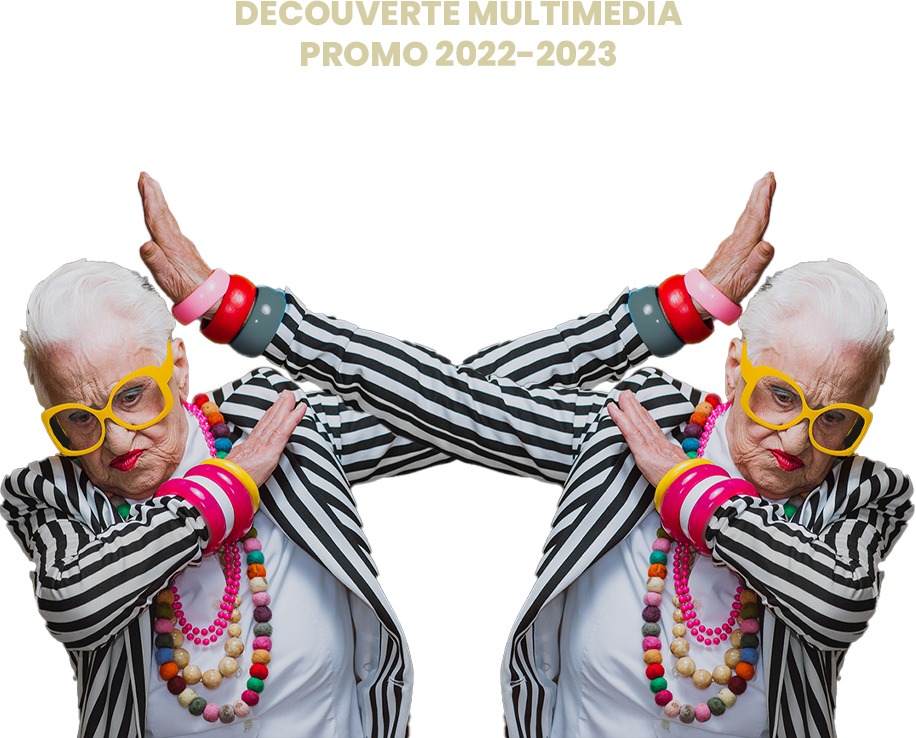
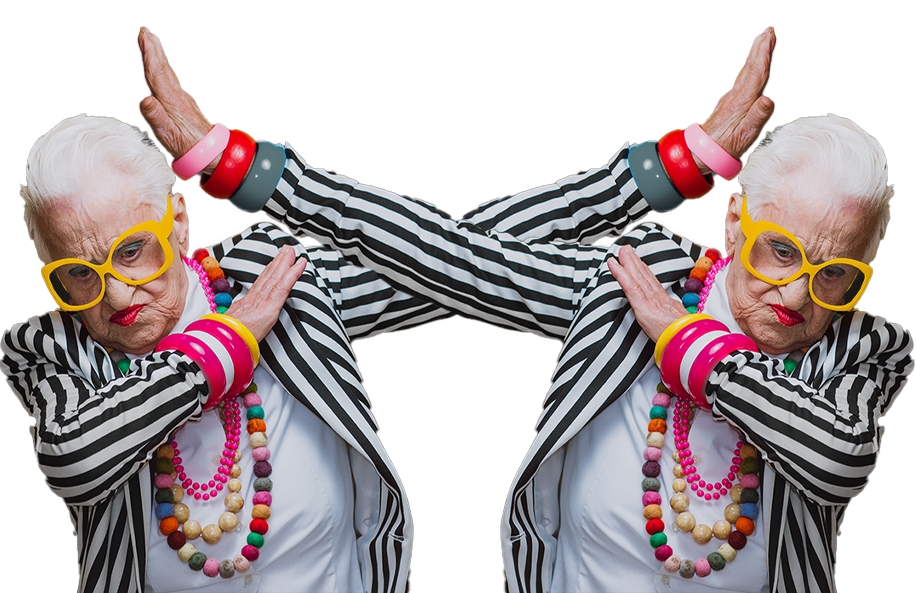
git push

diff --git a/main.js b/main.js
@@ -4,6 +4,10 @@ var imgActuelle = 0;
 // tableau listant toutes les images
 var images = ["img/rayane.png","img/Alicia.png","img/amal.png","img/asia.png","img/axel.png","img/fredd.png","img/khaoula.png"
 ,"img/lea.png","img/luka.png","img/kevin.png","img/mehdi.png","img/najet.png","img/soumaya.png","img/tom.png","img/yanis.png"];
+var currentImg = 0;
+// tableau listant toutes les images de fond
+var imagesFond = ["/img2/rayane.png","img2/alicia3.png","img2/amal.png","","img2/axel2.png","img2/fredd.jpg","img2/khaoula.png","img2/lea.png"
+,"img2/luckas.png","img2/kevin2.png","img2/mehdi.png","img2/najet2.PNG","img2/soumaia.png","img2/tom.jpg","img2/yanis.jpg"];
 
 
 // tableau listant toutes les légendes
@@ -26,6 +30,8 @@ var legendes = [
     
 ];
 
+
+
 // référence au diaporama que nous modifierons
 var diaporama = document.querySelector("#diaporama");
 
@@ -44,6 +50,13 @@ function imgSuivante(){
     // si imgActuelle est plus grand que la dernière clé du tableau images, on la remet à 0
     if(imgActuelle >= images.length) imgActuelle=0;
     majImage();
+     // on met à jour l'image de fond
+     fond.style.backgroundImage = "url("+imagesFond[imgActuelle]+")";
+     fond.style.backgroundSize = "cover";
+     fond.style.backgroundPosition = "center";
+     fond.style.backgroundSize = "70%";
+     
+     majImage();
 }
 
 // fonction appelée lors d'un clic sur le bouton #btGauche
@@ -52,6 +65,11 @@ function imgPrecedente(){
     imgActuelle--;
     // si imgActuelle est plus petit que 0, on le redéfinit à que la dernière clé du tableau images (case 3)
     if(imgActuelle < 0) imgActuelle= images.length-1;
+    majImage();
+    fond.style.backgroundImage = "url("+imagesFond[imgActuelle]+")";
+    fond.style.backgroundSize = "cover";
+    fond.style.backgroundPosition = "center";
+    fond.style.backgroundSize = "70%";
     majImage();
 }
 
@@ -66,43 +84,3 @@ function majImage() {
       diaporama.className = "animate__animated animate__fadeIn animate__delay-1.5s";
     }, 1500);
   }
-function changeColor() {
-   // Génère une couleur aléatoire
-   let color = '#'+Math.floor(Math.random()*16777215).toString(16);
-   // Modifie la couleur de fond de l'élément "diaporama"
-   document.getElementById("diaporama").style.backgroundColor = color;
-
-}
-
-const fonds = [
-    'backgroungimage/1.png','backgroungimage/5.png','backgroungimage/6.png','backgroungimage/7.png','backgroungimage/9.png','backgroungimage/10.png','backgroungimage/11.png','backgroungimage/12.png','backgroungimage/13.png','backgroungimage/14.png','backgroungimage/15.png','backgroungimage/20.png','backgroungimage/23.png','backgroungimage/26.png','backgroungimage/29.png','backgroungimage/30.png','backgroungimage/31.png','backgroungimage/32.png','backgroungimage/33.png','backgroungimage/36.png',
-    'backgroungimage/37.png','backgroungimage/40.png','backgroungimage/51.png','backgroungimage/52.png','backgroungimage/53.png',
-    'backgroungimage/3.jpg','backgroungimage/4.jpg','backgroungimage/16.jpg','backgroungimage/17.jpg','backgroungimage/18.jpg',
-    'backgroungimage/21.jpg','backgroungimage/24.jpg','backgroungimage/25.jpg','backgroungimage/27.jpg','backgroungimage/28.jpg',
-    'backgroungimage/35.jpg','backgroungimage/38.jpg','backgroungimage/39.jpg','backgroungimage/41.jpg','backgroungimage/42.jpg',
-    'backgroungimage/43.jpg','backgroungimage/44.jpg','backgroungimage/45.jpg','backgroungimage/46.jpg','backgroungimage/47.jpg',
-    'backgroungimage/48.jpg','backgroungimage/49.jpg','backgroungimage/50.jpg','backgroungimage/54.jpg',
-    
-    
-    
-  ];
-  
-  const fond = document.querySelector('#fond');
-
-  let fondActuel = 0;
-  let timeoutID = null;
-  
-  fond.addEventListener('click', () => {
-    fond.style.backgroundImage = `url(${fonds[fondActuel]})`;
-    fondActuel = (fondActuel + 1) % fonds.length;
-  
-    if (timeoutID) {
-      clearTimeout(timeoutID);
-    }
-  
-    timeoutID = setTimeout(() => {
-      fond.style.backgroundImage = 'none';
-    }, 500);
-    
-      });
-

diff --git a/styles.css b/styles.css
@@ -1,41 +1,91 @@
-html,body{
+@keyframes slide {
+    from {
+        background-position: -10% 0;
+    }
+    to {
+        background-position: 120% 0;
+    }
+}
+body{
     height:100%;
 }
 
-body{
+@keyframes moveRightToLeft {
+    0% {
+      transform: translateX(0);
+    }
+    50% {
+      transform: translateX(-100%);
+    }
+    100% {
+      transform: translateX(0);
+    }
+  }
+  
+  @keyframes moveLeftToRight {
+    0% {
+      transform: translateX(0);
+    }
+    50% {
+      transform: translateX(100%);
+    }
+    100% {
+      transform: translateX(0);
+    }
+  }
+
+
+body {
+    
+    
+    background-color: black;
+    background-repeat: repeat-x;
+    animation: slide 15s linear infinite 1s;
+    
+    
+
+}
+
+.container{
+   
     display:flex;
     justify-content: center;
     align-items: center;
-    background-color: black;
+    
+    background-repeat: no-repeat;
+    background-size: cover;
+    background-position: center;
+
 }
     
+#titreDiapo {
+    color:rgb(213, 205, 164);
+    text-align: center;
+    font-size: 50px;
+    margin-bottom: 20px;
+}
 
 #fond {
-       background-position: center;
+  
     background-repeat: no-repeat;
-    background-size: cover 50%;
-
-    
+    background-size: ;
+    background-position: center;
+    overflow:hidden;
+  }
+  #fond img {
+    border-radius: 50%;
   }
 
  
 
-body img{
-    /*background-image: url(img/2c.png);*/
-    background-repeat: no-repeat;
-    background-size: cover;
-    background-position: 0px 40px;
-    
 
-
-}
 
 #diaporama{
     max-width:100%;
     margin:5%;
     box-shadow: 0px 0px 5px 5px rgb(213, 205, 164);
     position:relative;
-    border-radius: 80%;
+    border-radius: 0%;
     
     
 
@@ -100,6 +150,50 @@ a {
     color: red;
 }
 
+
+
+footer {
+    background-color: rgba(247, 10, 58, 0.334);
+    text-align: center;
+    padding: 2em;
+    display: flex;
+    align-items: center;
+    justify-content: center;
+    height: 2px;
+    
+}
+    
+  
+   
+
+
+  #footer-img {
+   border-radius: 50%;
+    width: 20%;
+  animation: moveRightToLeft 10s linear infinite;
+  display: flex;
+  align-items: center;
+   justify-content: center;
+}
+
+    
+
+#copy {
+    float: right;
+    text-align: right;
+    margin-left:auto;
+ }
+
+
+
+
+
+
+
+
+
+
+
 @media only all and (max-width:900px){
 
     #body{max-width:100%;
@@ -130,4 +224,8 @@ a {
    }
 }
 
+
+
+ 
+ 
 

diff --git a/index.html b/index.html
@@ -12,23 +12,37 @@
   <link rel="stylesheet" href="https://cdnjs.cloudflare.com/ajax/libs/animate.css/4.1.1/animate.min.css" />
   <link rel="stylesheet" href="https://cdn.jsdelivr.net/npm/bootstrap-icons@1.10.3/font/bootstrap-icons.css">
   <link href="styles.css" rel="stylesheet">
-</head>
-<body>
-  
+<script defer src="main.js"></script>
 
-
-   
-    <script defer src="main.js"></script>
-</head>
+     
+ 
 <body>
+  <div class="container">
     <div id="fond">
+      <h1 id="titreDiapo">Découverte multimédia 22/23</h1>
   <div id="diaporama">
     <img alt="Image">
     <i id="btGauche" onclick="/*changeColor();*/ imgPrecedente()" class="bt bi bi-arrow-left-circle-fill"></i>
     <i id="btDroite" onclick="/*changeColor();*/ imgSuivante()" class="bt bi bi-arrow-right-circle-fill"></i>
     <div id="legende"></div>
+    
   </div>
 </div>
-    </fond>
+</div>
+</fond>
+</div>
+
 </body>
+
+<footer>
+  <div class="container">
+    <img src="/img2/kevin2.png" id="footer-img">
+  </div>
+<div id="copy"><p>Copyright © 2023 DM</p></div>
+
+
+  
+</footer>
+
+
 </html>
